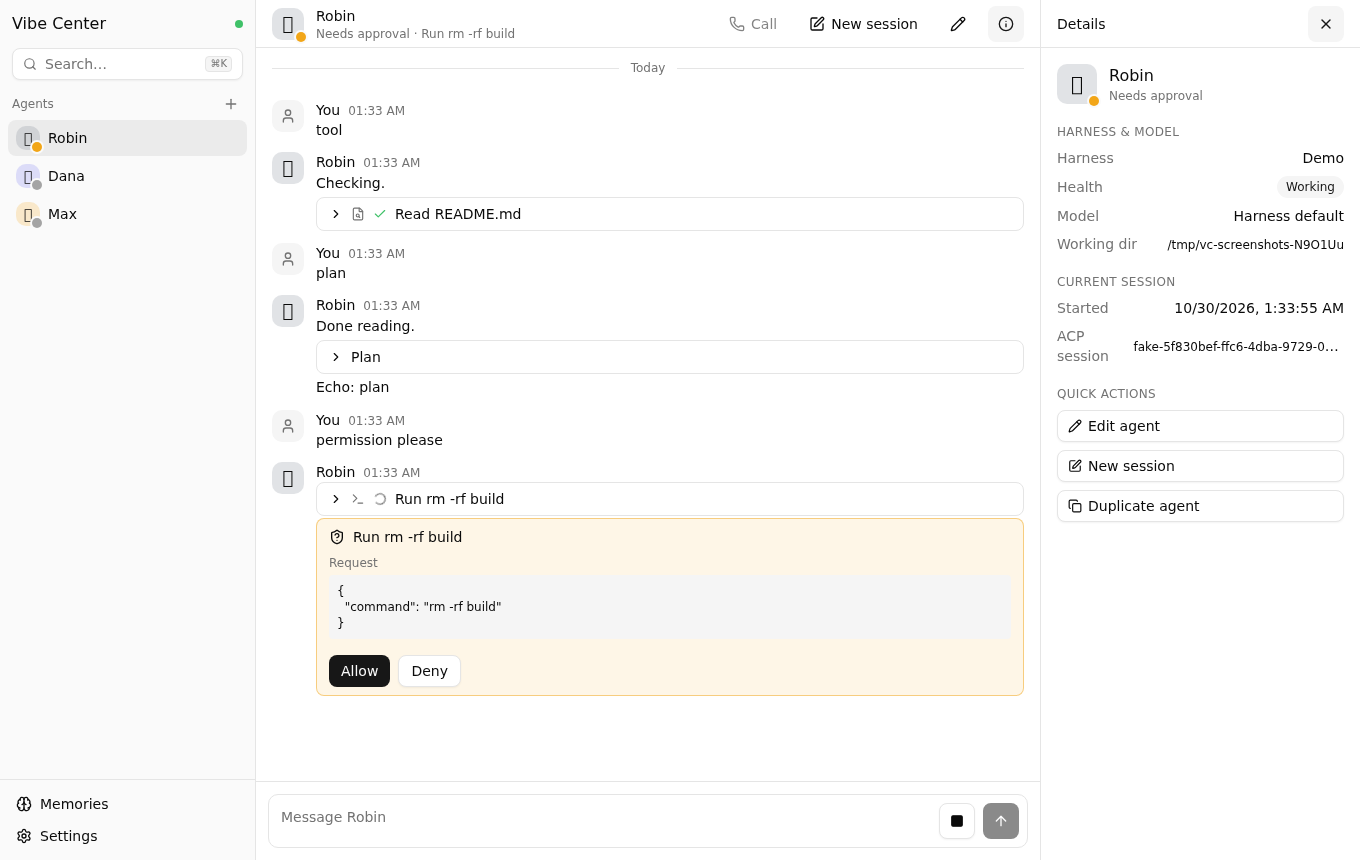
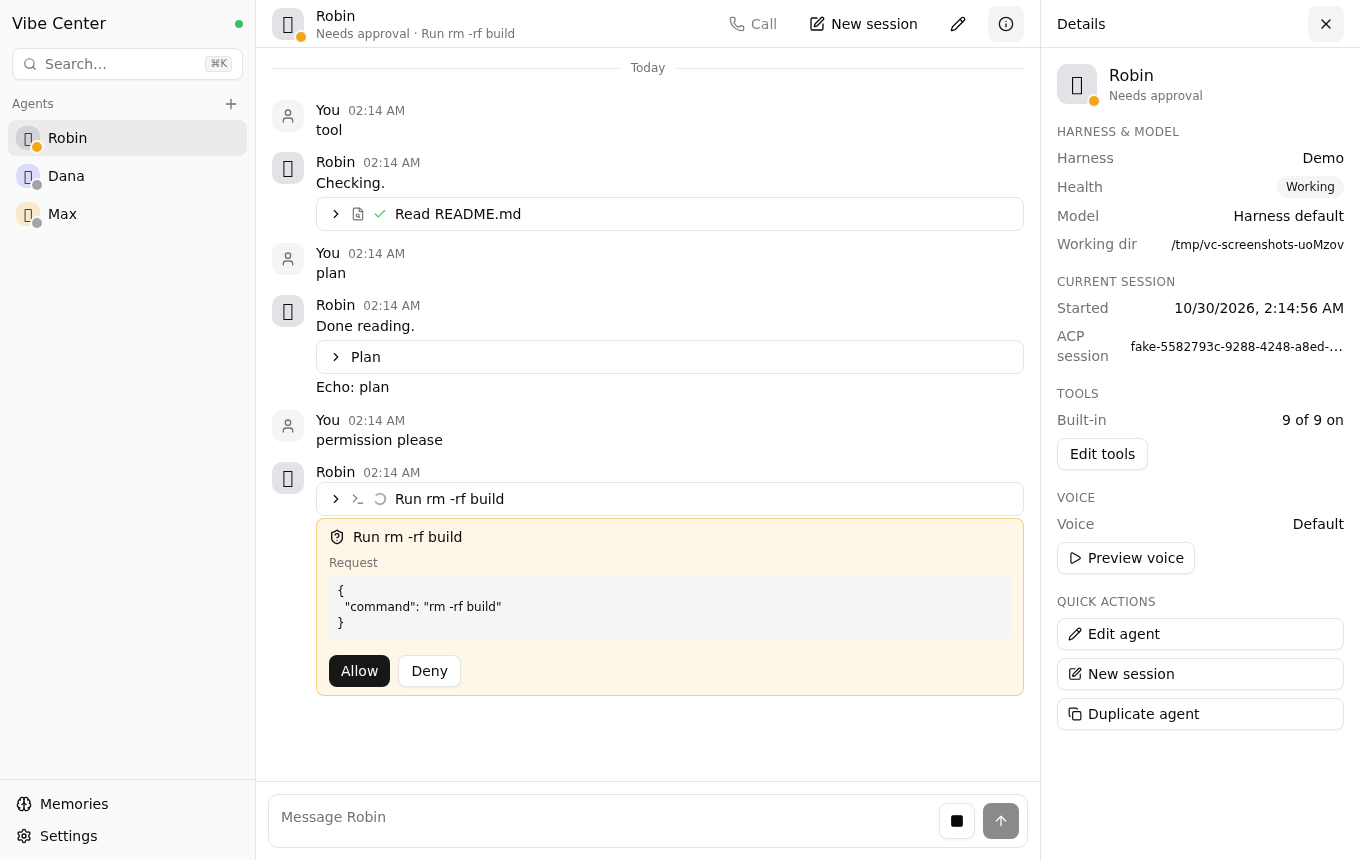
docs: refresh screenshots for templates, details panel, masked harness env
Reran scripts/screenshots.ts against the fake-agent harness, which also
regenerated dm-light/dark, command-palette and settings-general/harnesses
(unrelated byte diffs from the run, not behavior changes). Added a step that
creates a custom harness with an env secret through the UI and reopens it,
confirming the value is masked (settings-harness-secret-light.png), plus the
existing agent-editor and dm-details captures now show the "Coding agent"
template's pre-filled description/prompt and the Details panel's new Tools
and Voice sections.

diff --git a/scripts/screenshots.ts b/scripts/screenshots.ts
@@ -139,6 +139,22 @@ async function shoot(browser: import("@playwright/test").Browser): Promise<void>
   await page.waitForTimeout(100);
   await page.screenshot({ path: join(OUT, "settings-harnesses-light.png") });
 
+  // Custom harness env is write-only (masked like MCP secrets): add one, then reopen it to see
+  // the stored value is never echoed back, only its last 4 characters.
+  await page.getByRole("button", { name: "Add custom harness" }).click();
+  await page.waitForTimeout(100);
+  await page.getByLabel("Name").fill("Secret Harness");
+  await page.getByLabel("Command").fill("true");
+  await page.getByRole("button", { name: "Add", exact: true }).click();
+  await page.getByLabel("Environment name").fill("API_KEY");
+  await page.getByLabel("Environment value").fill("sk-super-secret-1234567890");
+  await page.getByRole("button", { name: "Add harness" }).click();
+  await page.waitForTimeout(300);
+  await page.getByRole("button", { name: "Edit Secret Harness" }).click();
+  await page.waitForTimeout(300);
+  await page.screenshot({ path: join(OUT, "settings-harness-secret-light.png") });
+  await page.keyboard.press("Escape");
+
   // Dark theme.
   await page.getByRole("link", { name: "Appearance" }).click();
   await page.getByRole("combobox", { name: "Theme" }).click();
